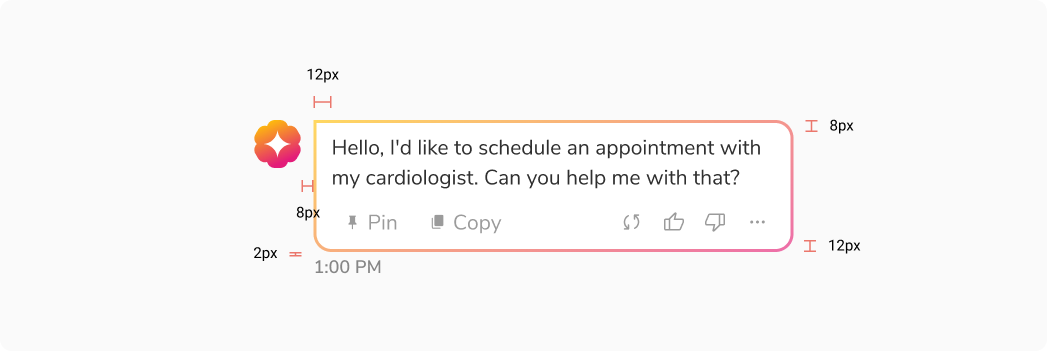
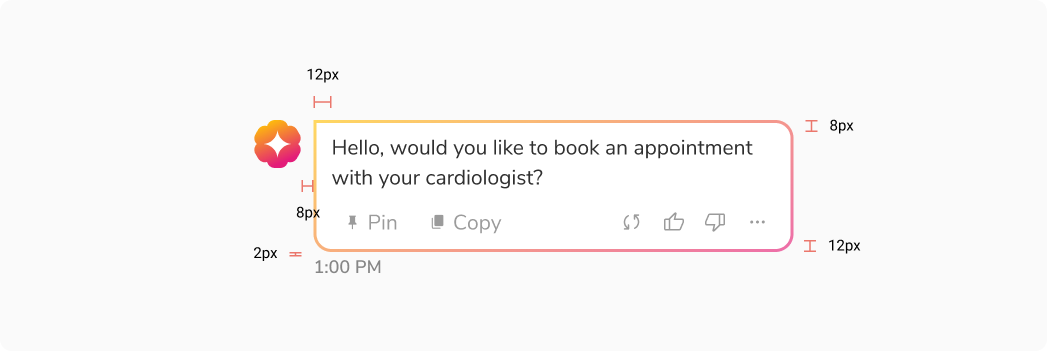
docs(AIResponse): update images in AI Response examples

Changed region(s): [[0.3056, 0.4843, 0.703, 0.5413], [0.3668, 0.3989, 0.7335, 0.4558]]

diff --git a/core/ai-components/AIResponse/__stories__/index.story.jsx b/core/ai-components/AIResponse/__stories__/index.story.jsx
@@ -30,7 +30,7 @@ export const All = () => {
       <div className="ml-4">
         <AIResponse>
           <AIResponse.Body>
-            <Text>Hello, I'd like to schedule an appointment with my cardiologist. Can you help me with that?</Text>
+            <Text>Hello, would you like to book an appointment with your cardiologist?</Text>
           </AIResponse.Body>
 
           <AIResponse.ActionBar>
@@ -111,7 +111,7 @@ const customCode = `() => {
       <div className="ml-4">
         <AIResponse>
           <AIResponse.Body>
-            <Text>Hello, I'd like to schedule an appointment with my cardiologist. Can you help me with that?</Text>
+            <Text>Hello, would you like to book an appointment with your cardiologist?</Text>
           </AIResponse.Body>
 
           <AIResponse.ActionBar>
